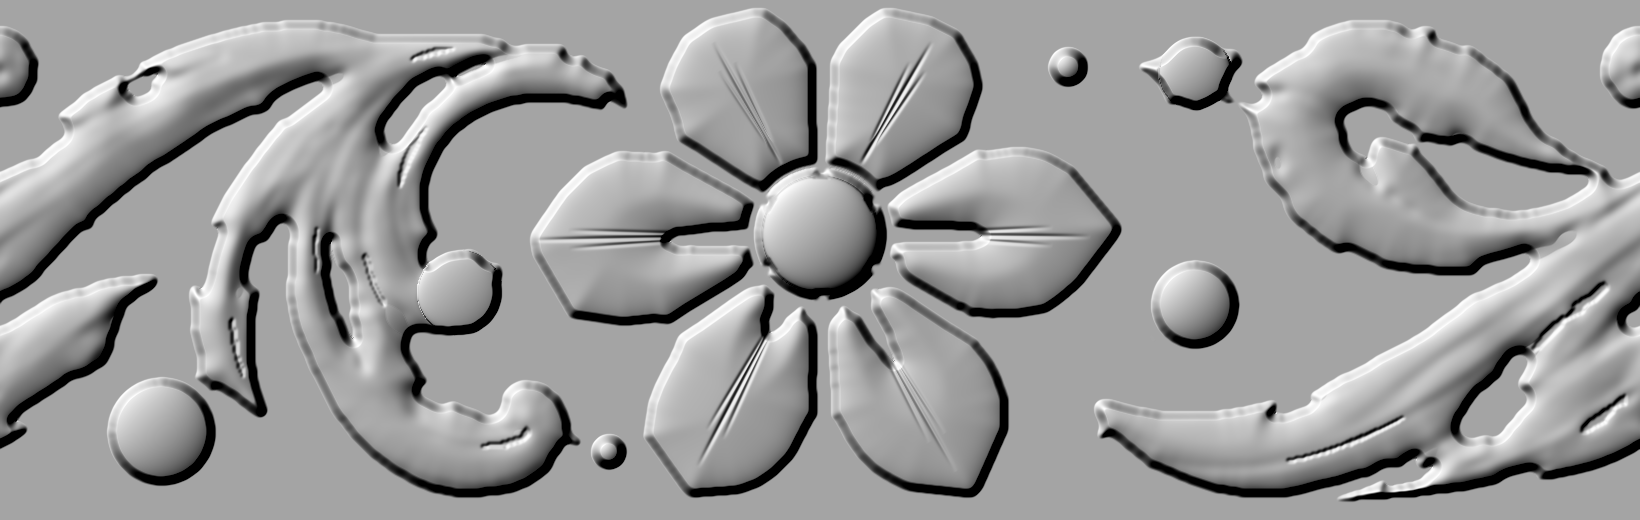
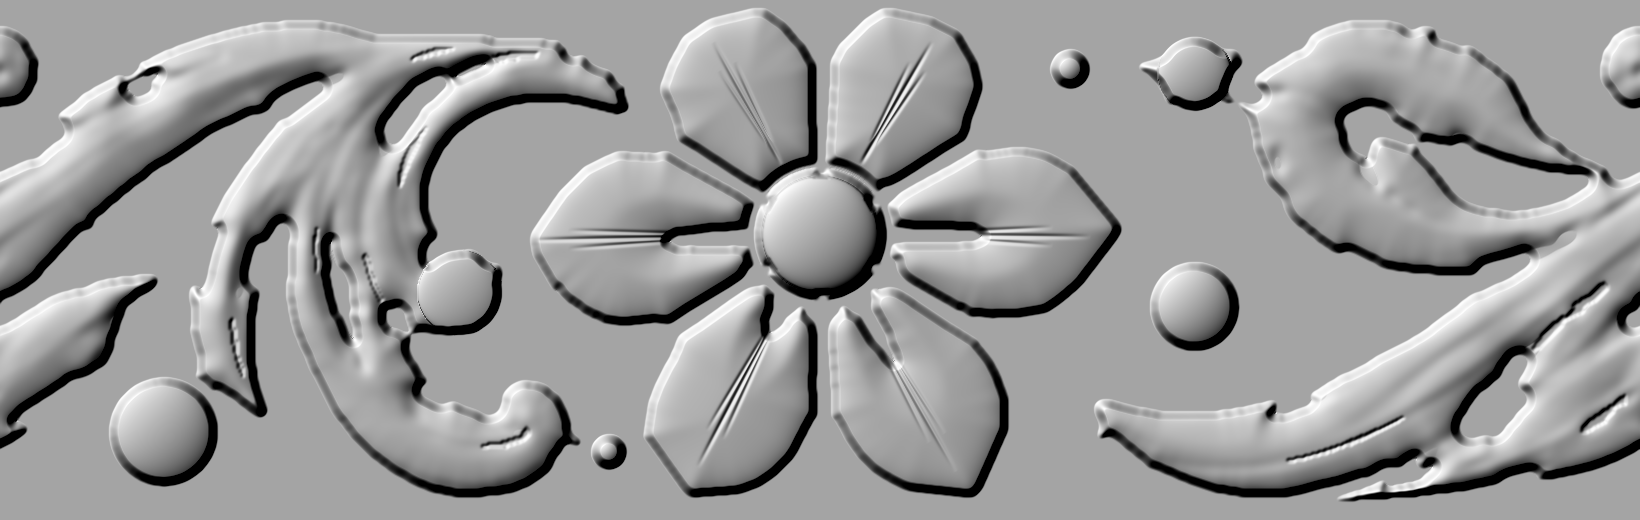
v2 step 18: items 2-6 from the planned-changes list: bead circles refitted to ref gold outline (BFIT; 4 beads), bay-fill windows at right petal tip (612,108) and scroll top strip (525,40), ref-dark CUT windows at (396,319) crease and (575,312) petal rim band; HR knob (hull radius limit, default off:
Claude-Session: s81

diff --git a/tools/v2/make_map_v2.py b/tools/v2/make_map_v2.py
@@ -63,7 +63,7 @@ for _t, _hw in zip(FAX, FHW):
     if _n < 2: continue
     _k = 1 + int(np.argmax(_st[1:, cv2.CC_STAT_AREA])); _pts = cv2.findNonZero((_l == _k).astype(np.uint8))
     _hm = np.zeros(B.shape, np.uint8); cv2.fillConvexPoly(_hm, cv2.convexHull(_pts), 1)
-    B = B | ((_hm > 0) & _sec) | (_sec & (_dB <= _e))   # hull + wedge fill toward the gap lines (distance-limited, fades with r)
+    B = B | ((_hm > 0) & _sec & (_r < E('HR', 1e9))) | (_sec & (_dB <= _e))   # s85 HR: hull fill only for r<HR (the hull overreaches where the ref petal rim is concave)   # hull + wedge fill toward the gap lines (distance-limited, fades with r)
 B = B & ~((_r < _rbp) & (_r > 40))
 _B2 = sg(sdf_of(B), E('BSG', 2.5)) > 0
 B = np.where((_r > 55) & (_r < 130), _B2, B)
@@ -84,7 +84,7 @@ _l2, _n2 = ndi.label(B); _a2 = np.bincount(_l2.ravel(), minlength=_n2 + 1); B = 
 _nx, _ny = np.meshgrid(np.arange(TW), np.arange(TH)); _nd = np.hypot(_nx - E('NCX', 821), _ny - E('NCY', 72)); _nw = 1 - np.clip((_nd - E('NCR', 14)) / 8, 0, 1)
 B = np.where(_nw > .5, sg(sdf_of(B), E('NSG', 3)) > 0, B)
 # s84 bay fills: where a dark crease next to a leaf edge was cut out of the mask it opened a bite / left a shaded tail out (diff MISS blobs, x y window radius). Inside these soft windows the map takes the union with the ref's own gold (brightness hysteresis, same detector as diff_v2.py: seeds V>HI 150 grown <=6 px into V>85, opened 3x3, comps/holes <150 dropped), opened 5x5 to drop rim noise. BAY=0 disables.
-BAYS = [(146, 74, 34), (1377, 492, 44)]
+BAYS = [(146, 74, 34), (1377, 492, 44), (612, 108, 26), (525, 40, 36)]   # s85 + right petal tip (612,108) and scroll top strip (525,40)
 if E('BAY', 1):
     _ref = cv2.imread('reference/band_face.png')[215:473, 70:2116]
     _V = cv2.GaussianBlur(cv2.cvtColor(_ref, cv2.COLOR_BGR2GRAY).astype(np.float32), (0, 0), 1.0)
@@ -95,11 +95,18 @@ if E('BAY', 1):
     _t[:, :SEAM] = (1 - _al) * _e[:, P:P + SEAM] + _al * _e[:, :SEAM]
     _Rg = ndi.binary_opening(cv2.resize(_t, (TW, TH), interpolation=cv2.INTER_CUBIC) > .5, np.ones((5, 5)))
     _bx, _by = np.meshgrid(np.arange(TW), np.arange(TH))
+    _Dk = ndi.binary_opening(cv2.resize(_t, (TW, TH), interpolation=cv2.INTER_CUBIC) <= .5, np.ones((5, 5)))   # ref NON-gold (dark crease / ground), opened 5x5
     for _cx, _cy, _wr in BAYS:
         B = B | (_Rg & (np.hypot(_bx - _cx, _by - _cy) <= _wr))
+    # s85 cuts: window (x, y, radius) where the map has gold but the ref has a dark crease / dark rim band: remove the ref-dark part. 'a' windows above add ref gold.
+    CUTS = [(396, 319, 26), (575, 312, 30)]
+    for _cx, _cy, _wr in CUTS:
+        B = B & ~(_Dk & (np.hypot(_bx - _cx, _by - _cy) <= _wr))
 # beads (ring-template matched on the ref, tile px x,y,r, moat?, top): carve moat ring, stamp disc
 sc = TW / P; Yg, Xg = np.mgrid[:TH, :TW]
 BEADS = [(407, 116, 29, 1, FBEAD), (593, 151, 22, 1, BEAD), (80, 214, 27, 1, BEAD), (530, 33, 10, 1, BEAD), (302, 224, 9, 1, BEAD), (593, 36, 18, 0, BEAD), (228, 145, 21, 0, .78)]
+if E('BFIT', 1):   # s85 circles refitted (robust LSQ) to the ref gold outline, edge px with ground outside; only beads with >=33/36 angular bins covered (the (302,224) and curl-ball (228,145) fits were contaminated, kept)
+    BEADS[1] = (592.7, 151.9, 22.29, 1, BEAD); BEADS[2] = (81.0, 214.1, 27.2, 1, BEAD); BEADS[3] = (530.9, 34.0, 9.93, 1, BEAD); BEADS[5] = (592.8, 36.4, 18.31, 0, BEAD)
 dist_b = np.full(B.shape, 1e9, np.float32)
 for bx, by, br, moat, top in BEADS:
     d = np.hypot(Xg - bx * sc, Yg - by * sc); R = br * sc
